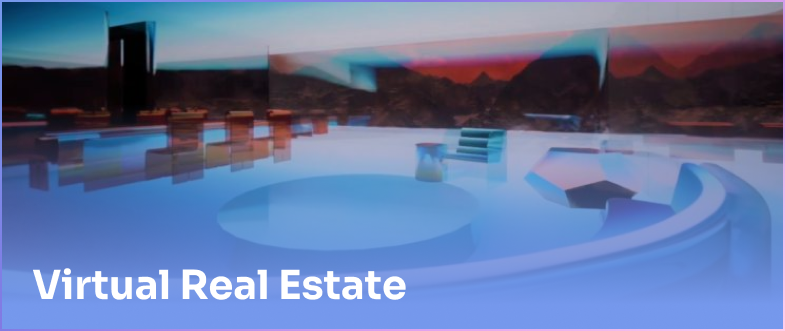
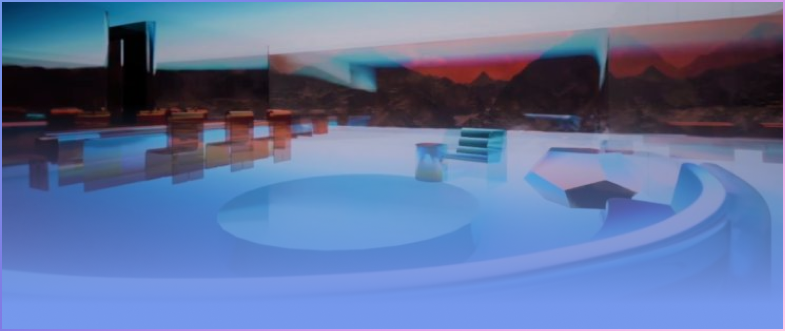
cards updated

Changed region(s): [[0.0306, 0.8157, 0.5197, 0.9063]]

diff --git a/src/Components/Cards/Cards.module.scss b/src/Components/Cards/Cards.module.scss
@@ -1,40 +1,43 @@
 @import '../../index.scss';
 
-.cards {
-  width: 100%;
-  height: 100%;
-  display: flex;
-  justify-content: center;
-  align-items: center;
-  padding-top: 4rem;
-  @include media('mobile') {
-    padding-top: 3rem;
-    display: flex;
-    justify-content: center;
-    align-content: center;
-  }
-  .desktopImg {
-    display: block;
-    @include media('mobile') {
-      width: 90%;
-      display: flex;
-      justify-content: center;
-      align-content: center;
-      display: none;
-    }
-  }
-}
+// .cards {
+//   width: 100%;
+//   height: 100%;
+//   display: flex;
+//   justify-content: center;
+//   align-items: center;
+//   padding-top: 4rem;
+//   @include media('mobile') {
+//     padding-top: 3rem;
+//     display: flex;
+//     justify-content: center;
+//     align-content: center;
+//   }
+//   .desktopImg {
+//     display: block;
+//     @include media('mobile') {
+//       width: 90%;
+//       display: flex;
+//       justify-content: center;
+//       align-content: center;
+//       display: none;
+//     }
+//   }
+// }
 
-.normal {
-  @include media('mobile') {
-    display: flex;
-    justify-content: center;
-    align-items: center;
-  }
-}
+// .normal {
+//   @include media('mobile') {
+//     display: flex;
+//     justify-content: center;
+//     align-items: center;
+//   }
+// }
 
 .right {
   padding-right: 30rem;
+  @include media('tablet') {
+    padding-right: 0rem;
+  }
   @include media('mobile') {
     padding-right: 2rem;
   }
@@ -42,23 +45,132 @@
 
 .left {
   padding-left: 30rem;
+  @include media('tablet') {
+    padding-left: 0rem;
+  }
   @include media('mobile') {
     padding-left: 2rem;
   }
 }
 
-// .tilled {
-//   position: relative;
-//   top: 15rem;
+// .mobileImg {
+//   display: none;
 //   @include media('mobile') {
-//     top: 0;
+//     display: block;
+//     width: 319px;
+//     height: 218px;
 //   }
 // }
-.mobileImg {
-  display: none;
-  @include media('mobile') {
-    display: block;
-    width: 319px;
-    height: 218px;
+
+// .moving{
+//   padding-right: 30rem;
+// }
+
+.cards {
+  width: 100%;
+  height: 100%;
+  display: flex;
+  justify-content: center;
+  align-content: center;
+  cursor: pointer;
+  padding: 2rem;
+  .cardsImg {
+    position: relative;
+    .desktopImg {
+      // max-width: 785px;
+      // max-height: 331px;
+      // width: 100%;
+      height: 100%;
+      border: 2px solid #ffffff;
+      border-radius: 20px;
+      display: block;
+      opacity: 1;
+      @include media('tablet') {
+        width: 100%;
+      }
+      @include media('mobile') {
+        display: none;
+      }
+    }
+    .mobileImg {
+      display: none;
+      @include media('mobile') {
+        display: block;
+      }
+    }
+    .cardsArea {
+      width: 100%;
+      height: auto;
+      position: absolute;
+      bottom: 2rem;
+      padding: 0 3rem;
+      @include media('mobile') {
+        padding: 0 1rem;
+        bottom: 0;
+      }
+
+      .buttons {
+        width: 100%;
+        height: 100%;
+        display: flex;
+        justify-content: space-between;
+        align-items: center;
+        padding-top: 2rem;
+        padding: 2rem 0.5rem 0 0.5rem;
+        @include media('mobile') {
+          padding: 0.5rem 0.5rem 0 0.5rem;
+        }
+        p {
+          color: #ffffff;
+          font-family: Lexend;
+          font-weight: 400;
+          font-style: normal;
+          font-size: 12px;
+          line-height: 11.87px;
+          font-family: 'Lexend', sans-serif;
+          img {
+            position: relative;
+            right: 0.5rem;
+          }
+        }
+      }
+
+      .cardsInfo {
+        width: 100%;
+        height: 100%;
+        display: flex;
+        flex-direction: column;
+        h3 {
+          letter-spacing: 0px;
+          color: #ffffff;
+          font-size: 40px;
+          line-height: 18px;
+          font-weight: 700;
+          font-family: 'Nunito', sans-serif;
+          font-family: 'Sora', sans-serif;
+          @include media('mobile') {
+            font-size: 18px;
+          }
+        }
+        p {
+          position: relative;
+          bottom: 1.3rem;
+          span {
+            letter-spacing: 0px;
+            color: #ffffff;
+            opacity: 1;
+            font-size: Poppins-Regular;
+            font-size: 16px;
+            font-weight: normal;
+          }
+          img {
+            width: 41px;
+            height: 45px;
+            position: relative;
+            bottom: 5px;
+          }
+        }
+      }
+    }
   }
 }

diff --git a/src/Components/Cards/Cards.jsx b/src/Components/Cards/Cards.jsx
@@ -1,15 +1,52 @@
+// import React from 'react';
+// import styles from './Cards.module.scss';
+
+// const CardsComponent = ({ img, tilled, mobileImg }) => {
+//   return (
+//     <div className={styles.cards}>
+//       <div className={`${tilled === "left" ? styles.right : styles.left}`}>
+//         <img src={img} alt='cards' className={styles.desktopImg}/>
+//         <img src={mobileImg} alt="mobilecards" className={styles.mobileImg} />
+//       </div>
+//     </div>
+//   );
+// };
+
+// export default CardsComponent;
+
 import React from 'react';
 import styles from './Cards.module.scss';
+import './OverRide.scss';
 
-const CardsComponent = ({ img, tilled, mobileImg }) => {
+const Cards = ({ img, tilled, mobileImg, name, rightText, leftText }) => {
   return (
-    <div className={styles.cards}>
-      <div className={`${tilled === "left" ? styles.right : styles.left}`}>
-        <img src={img} alt='cards' className={styles.desktopImg}/>
-        <img src={mobileImg} alt="mobilecards" className={styles.mobileImg} />
+    <div className={`${tilled === 'left' ? styles.right : styles.left}`}>
+      <div className={`${styles.cards} cards`}>
+        <div className={styles.cardsImg}>
+          <img className={styles.desktopImg} src={img} alt='' />
+          <img className={styles.mobileImg} src={mobileImg} alt='' />
+          <div className={styles.cardsArea}>
+            <div className={styles.cardsInfo}>
+              <h3>{name}</h3>
+            </div>
+            <div className={`${styles.buttons} buttons`}>
+              <div>
+                <p>
+                  <img src='Assets/leftbutton.png' alt='' />
+                  {leftText}
+                </p>
+              </div>
+              <div>
+                <p>
+                  <img src='Assets/rightbutton.png' alt='' /> {rightText}
+                </p>
+              </div>
+            </div>
+          </div>
+        </div>
       </div>
     </div>
   );
 };
 
-export default CardsComponent;
+export default Cards;

diff --git a/src/Components/Card/Card.jsx b/src/Components/Card/Card.jsx
@@ -8,16 +8,44 @@ const Card = () => {
     <div className={styles.main_cards}>
       <Row className={styles.innerDiv}>
         <Col sm={12} md={12}>
-          <CardsComponent img='Assets/Card1.png' mobileImg="Assets/cardmobile1.png" tilled="left" />
+          <CardsComponent
+            img='Assets/Card1.png'
+            mobileImg='Assets/cardmobile1.png'
+            tilled='left'
+            name='Virtual Real Estate'
+            rightText='Lease for Ad'
+            leftText='Land owner'
+          />
         </Col>
         <Col sm={12} md={12}>
-          <CardsComponent img='Assets/Card2.png' mobileImg="Assets/cardmobile2.png" tilled="right" />
+          <CardsComponent
+            img='Assets/Card2.png'
+            mobileImg='Assets/cardmobile2.png'
+            tilled='right'
+            name='Virtual Brick & Motar'
+            rightText='Lease for Ad'
+            leftText='Land owner'
+          />
         </Col>
         <Col sm={12} md={12}>
-          <CardsComponent img='Assets/Card3.png' mobileImg="Assets/cardmobile3.png" tilled="left" />
+          <CardsComponent
+            img='Assets/Card3.png'
+            mobileImg='Assets/cardmobile3.png'
+            tilled='left'
+            name='Event Hosting'
+            rightText='Lease for Ad'
+            leftText='Land owner'
+          />
         </Col>
         <Col sm={12} md={12}>
-          <CardsComponent img='Assets/Card4.png' mobileImg="Assets/cardmobile4.png" tilled="right" />
+          <CardsComponent
+            img='Assets/Card4.png'
+            mobileImg='Assets/cardmobile4.png'
+            tilled='right'
+            name='Virtual Brick & Motar'
+            rightText='Lease for Ad'
+            leftText='Land owner'
+          />
         </Col>
       </Row>
     </div>

diff --git a/src/index.scss b/src/index.scss
@@ -1,4 +1,6 @@
 @import url('https://fonts.googleapis.com/css2?family=Lexend:wght@300&display=swap');
+@import url('https://fonts.googleapis.com/css2?family=Nunito:wght@700&family=Sora:wght@700&display=swap');
+@import url('https://fonts.googleapis.com/css2?family=Lexend&display=swap');
 // Colors
 $white: #ffffff;
 $milkywhite: #ffffff;

diff --git a/src/Components/Cards/OverRide.scss b/src/Components/Cards/OverRide.scss
@@ -1,0 +1,15 @@
+.buttons {
+  display: none !important;
+  transition: all 1s ease-in-out;
+}
+
+.cards:hover .buttons {
+  display: flex !important;
+  transition: all 1s ease-in-out;
+}
+
+@media only screen and (max-width: 767px) {
+  .buttons {
+    display: flex !important;
+  }
+}
